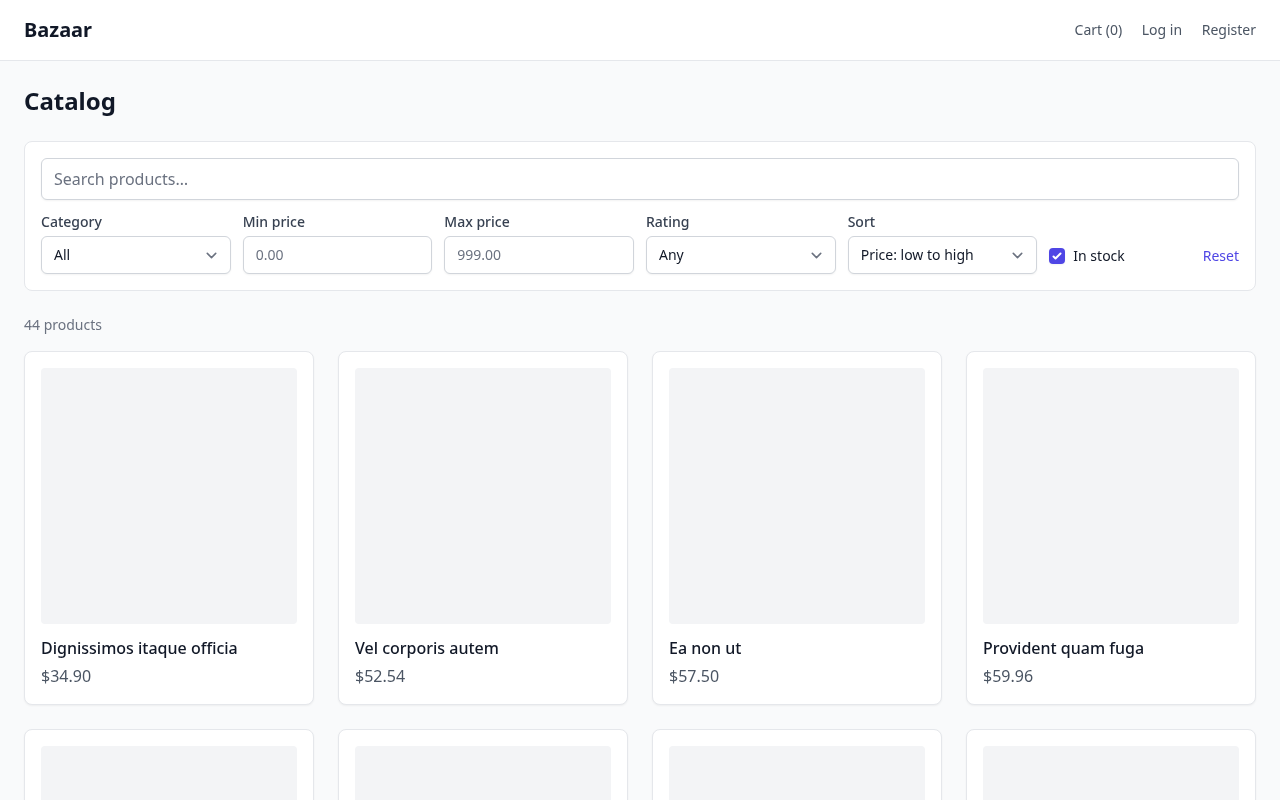
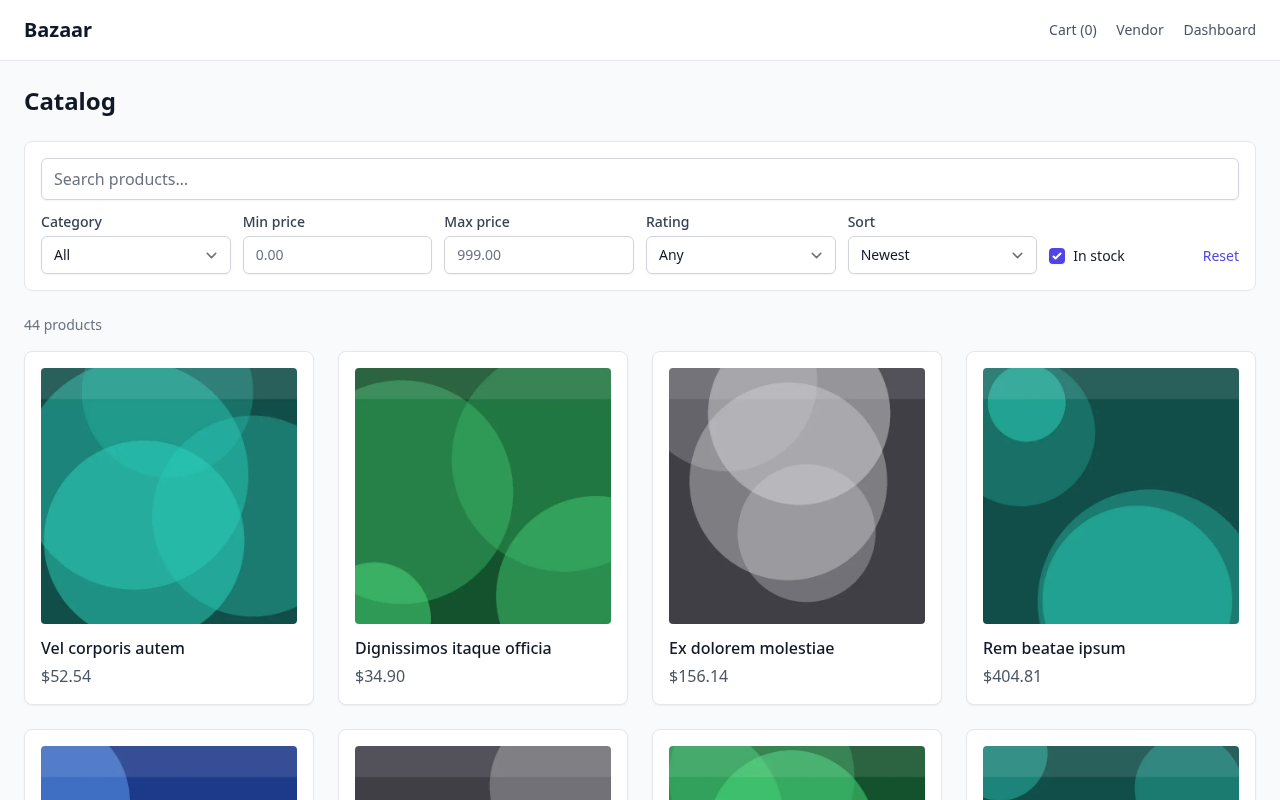
docs: refresh screenshots and README for product images

diff --git a/README.md b/README.md
@@ -25,11 +25,11 @@ The domain is deliberately the hard part of e-commerce: money, stock under concu
 
 | Area | |
 | --- | --- |
-| **Storefront** | Catalog with full-text search and facets (category, price range, rating, availability), product variants with their own SKU/price/stock, cart (guest session → account cart, merged on login), checkout with coupons, order history |
+| **Storefront** | Catalog with full-text search and facets (category, price range, rating, availability), product galleries (uploads resized to WebP in a queued job), product variants with their own SKU/price/stock, cart (guest session → account cart, merged on login), checkout with coupons, order history |
 | **Multi-vendor** | Stores with admin moderation, one checkout split into per-store sub-orders, vendor dashboard (incoming orders, products, payouts), platform commission with exact money math |
 | **Payments** | Stripe in test mode (PaymentIntents, Payment Element, signed webhooks, refunds) behind a gateway contract with a keyless sandbox implementation; idempotent "payment succeeded" handling; stock decremented on payment inside the same transaction; cancellation and refunds return the money, restore stock and void vendor payouts |
 | **Reviews** | Polymorphic, verified buyers only, one per buyer, moderated in the admin panel |
-| **Admin** | Filament panel: store and review moderation, categories, coupons, users, orders |
+| **Admin** | Filament panel: store and review moderation, product galleries with drag-and-drop ordering, categories, coupons, users, orders |
 | **REST API** | `/api/v1` — Sanctum tokens, API Resources, Form Requests, rate limiting, pagination |
 
 ## Engineering highlights
@@ -42,6 +42,7 @@ The domain is deliberately the hard part of e-commerce: money, stock under concu
 - **One checkout, N sub-orders, atomically**, with price and title snapshots per line. → [`app/Services/Checkout/CheckoutService.php`](app/Services/Checkout/CheckoutService.php)
 - **Authorization as a matrix.** Policies for orders, sub-orders and reviews, roles via `spatie/laravel-permission`, tested end to end on both the web and the API. → [`tests/Feature/AuthorizationTest.php`](tests/Feature/AuthorizationTest.php)
 - **Events drive side effects.** `OrderPaid` fans out to stock, sub-order states, payouts and a queued buyer notification.
+- **Media done properly.** Uploads are stored once; `card`/`thumb`/`large` WebP derivatives are generated by a queued job that runs after the transaction commits, URLs fall back to the original until they exist, and files are removed with the row. → [`app/Services/Media/ImageProcessor.php`](app/Services/Media/ImageProcessor.php)
 - **Pluggable cart storage.** Session for guests, a Redis account cart for users (shared by the web and the API), guest cart merged into the account on login. → [`app/Services/Cart`](app/Services/Cart)
 - **Static analysis at PHPStan level 8** (Larastan), Pint, and a CI pipeline with a dedicated MySQL job for the concurrency suite.
 
@@ -93,6 +94,7 @@ curl -s -X POST localhost:8080/api/v1/cart/items -H "Authorization: Bearer $TOKE
 | Payments | Stripe (test mode) via `stripe/stripe-php`, Payment Element, webhooks |
 | UI | Livewire 3 + Volt (storefront, vendor area), Filament 4 (admin), Tailwind |
 | Data | MySQL 8, Redis 7 (cache, queue, session, account carts) |
+| Media | Intervention Image (GD, WebP) |
 | Search | Laravel Scout (database driver; Meilisearch-ready) |
 | Domain packages | `brick/money`, `spatie/laravel-model-states`, `spatie/laravel-permission`, `laravel/sanctum` |
 | Quality | Pest, Larastan (PHPStan level 8), Pint, GitHub Actions, Dependabot |
@@ -105,8 +107,8 @@ Requires Docker and Docker Compose.
 ```bash
 git clone git@github.com:Azazu/bazaar.git && cd bazaar
 cp .env.example .env
-make init      # build images, start the stack, install dependencies, generate the key, migrate
-make seed      # demo catalog, vendors, reviews, coupons
+make init      # build images, start the stack, install dependencies, generate the key, migrate, link storage
+make seed      # demo catalog with generated product images, vendors, reviews, coupons
 make assets    # build the front-end
 ```
 
@@ -139,7 +141,8 @@ The default suite covers checkout, Stripe webhook signature verification, paymen
 - [x] Multi-vendor: stores, sub-orders, vendor dashboard, payouts, admin moderation
 - [x] REST API, search and facets, concurrency tests, Larastan, CI
 - [x] Stripe test-mode gateway (Payment Element, signed webhooks, refunds) behind the `PaymentGateway` contract
-- [ ] Product images (Intervention Image), vendor and status-change notifications
+- [x] Product images (Intervention Image, queued WebP derivatives)
+- [ ] Vendor and status-change notifications
 - [ ] Meilisearch driver, Stripe Connect payouts, automatic refund when stock runs out between checkout and payment
 
 ## License
